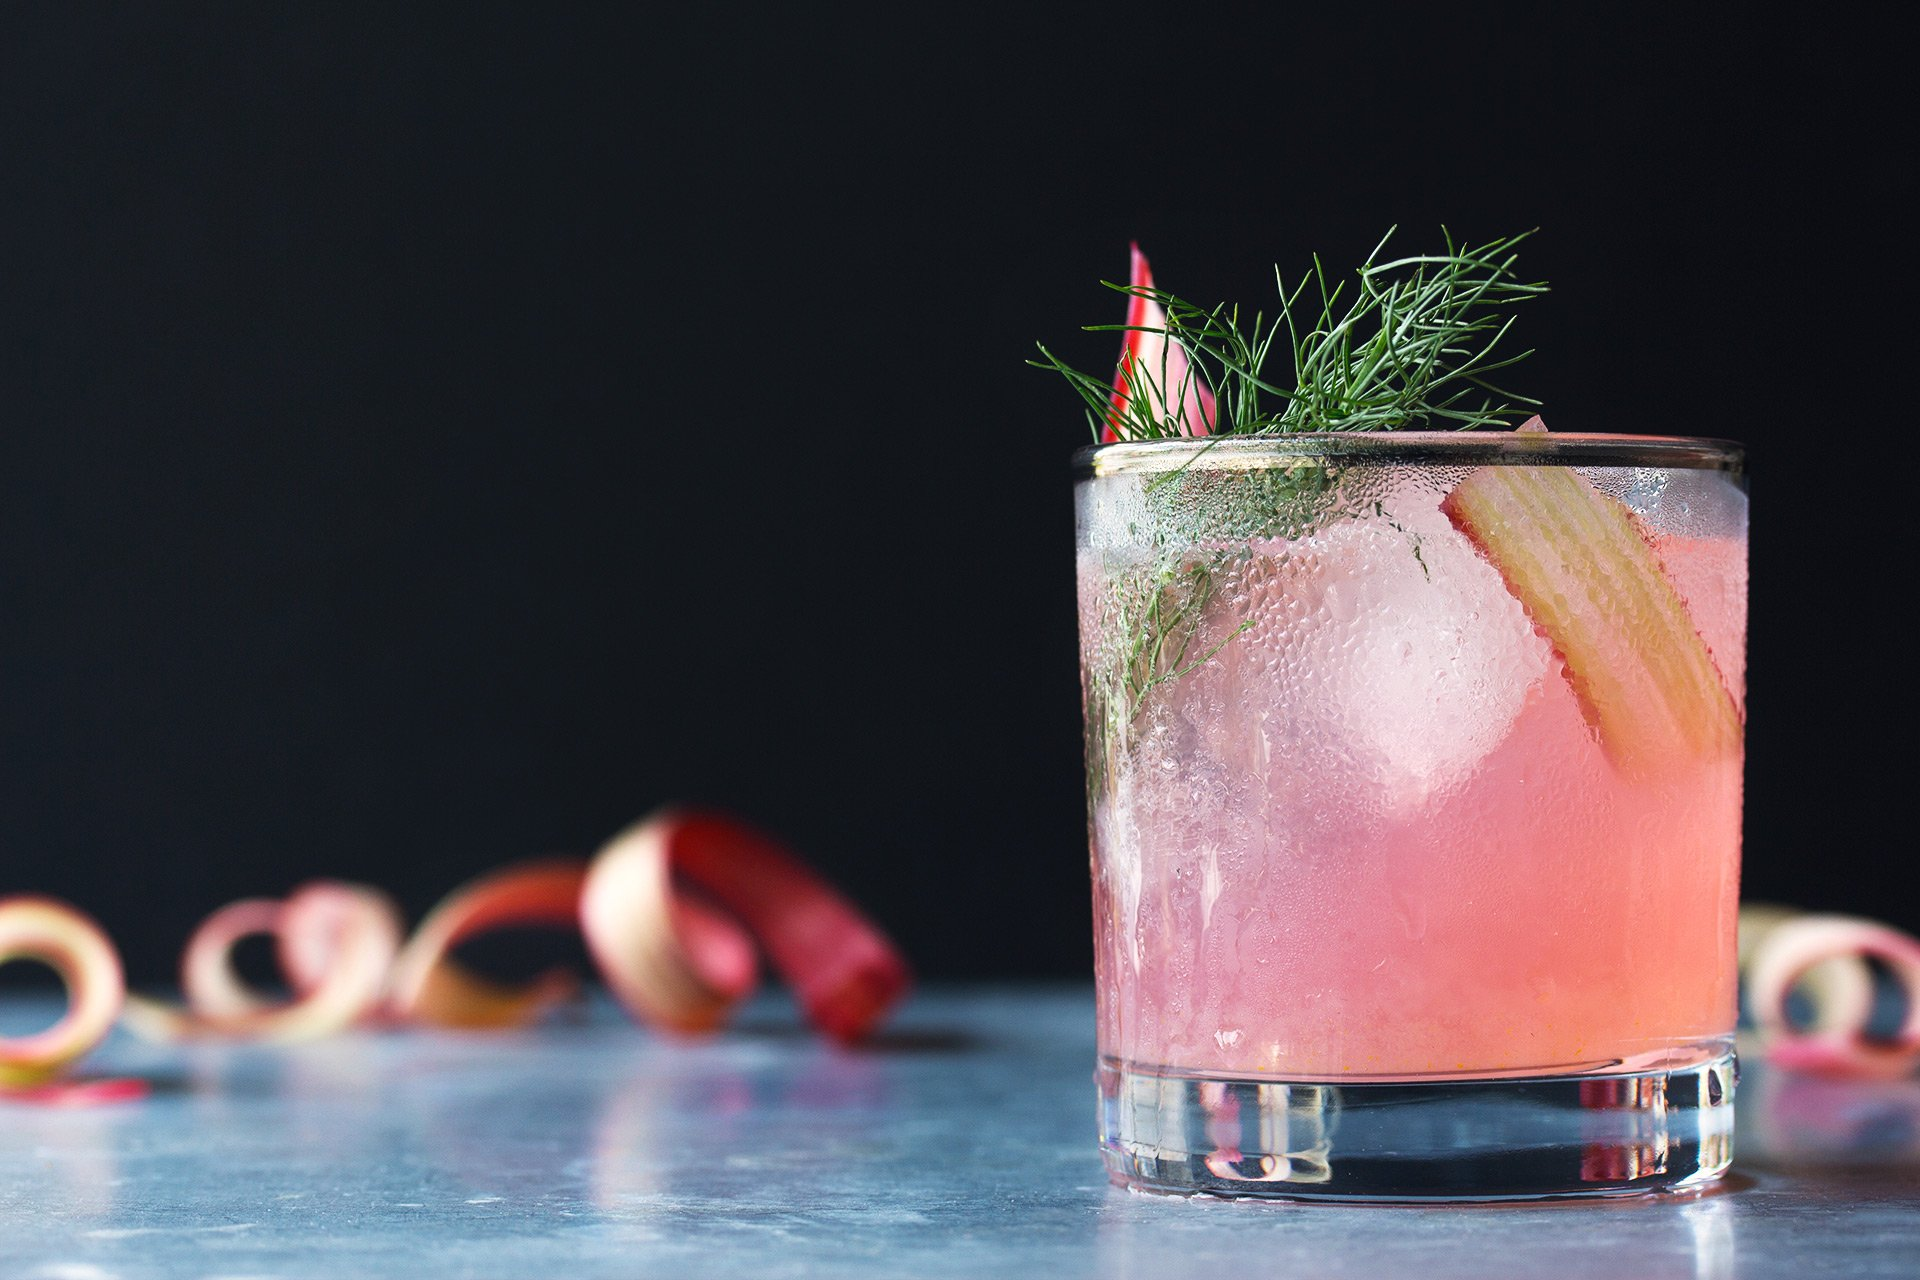
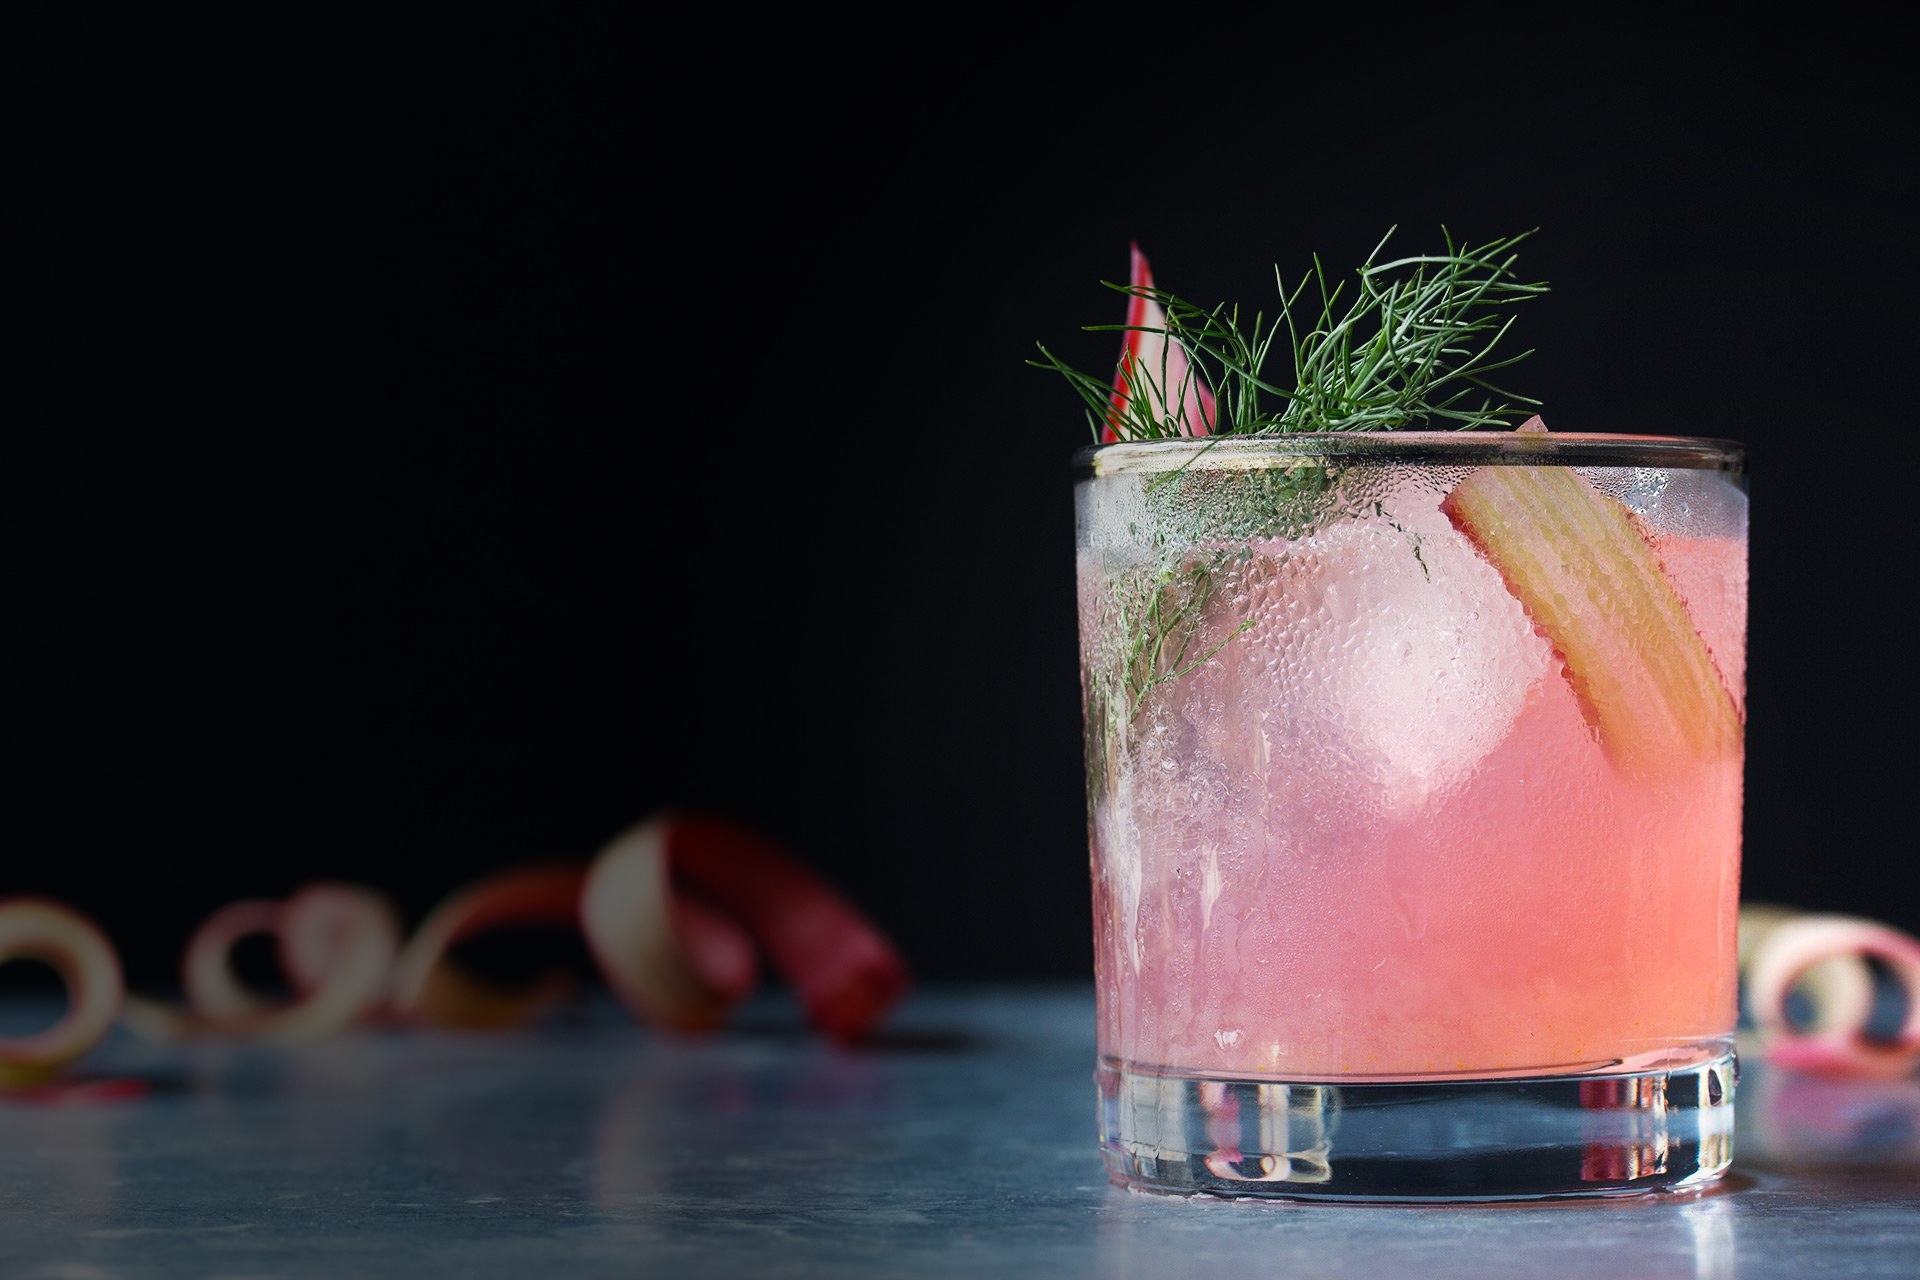
Added vignette to pixeled images and playing with transition

diff --git a/public/css/style.css b/public/css/style.css
@@ -50,7 +50,7 @@ h2 {
     background-position: center;
     background-image: url(../assets/cocktail7.jpg);
     box-shadow: 0px 0px 15px 0px rgba(0,0,0,0.75);
-    transition: all 0.9s linear;
+    transition: all 0.7s ease-out;
 }
 
 h1 {
